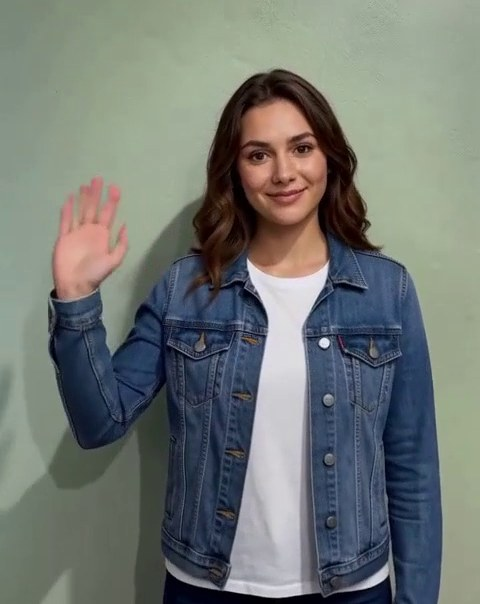
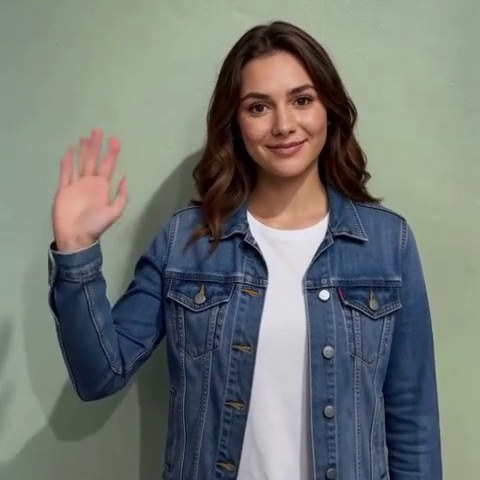
Diccionario: las capturas de las palabras se recortan igual que las de las letras
Las letras ya iban recortadas a la cara y la mano, y se leían mejor que las palabras, que mostraban el cuerpo entero con la mano chica. Ahora todas las capturas son el mismo cuadrado con la cara, el torso y las manos. En las doce señas las manos quedan dentro del recorte; el video sigue mostrando el cuerpo entero.

diff --git a/tools/previews_diccionario.py b/tools/previews_diccionario.py
@@ -40,10 +40,11 @@ FRAME_DE_CADA_SENA = {
     "v": 25,
 }
 
-# En la grilla las letras van de a cuatro por fila: con el cuerpo entero, la mano queda
-# de pocos píxeles. Su captura se recorta a un cuadrado con la cara y la mano. Las
-# palabras van enteras porque dónde queda el brazo respecto del cuerpo es parte de la seña.
-MARGEN_SUPERIOR_DE_LETRA = 0.08  # fracción del alto que se saltea arriba
+# La captura se recorta a un cuadrado con la cara, el torso y las manos. Con el cuerpo
+# entero la mano queda de pocos píxeles en una tarjeta de la grilla, y de la cintura para
+# abajo no hay nada de la seña. En todas las señas del modelo las manos quedan dentro del
+# cuadrado; si se agrega una que se hace más abajo, hay que revisar su captura.
+MARGEN_SUPERIOR = 0.08  # fracción del alto que se saltea arriba
 CALIDAD_JPG = 88
 
 
@@ -51,14 +52,10 @@ def nombre_de_archivo(clase):
     return clase.strip().replace(" ", "_")
 
 
-def es_letra(clase):
-    return len(clase) == 1 and clase.isalpha()
-
-
-def recorte_de_letra(alto, ancho):
+def recorte_cuadrado(alto, ancho):
     """El cuadrado de la parte de arriba del frame: (y0, y1), sin salirse de la imagen."""
     lado = min(ancho, alto)
-    y0 = min(int(round(MARGEN_SUPERIOR_DE_LETRA * alto)), alto - lado)
+    y0 = min(int(round(MARGEN_SUPERIOR * alto)), alto - lado)
     return y0, y0 + lado
 
 
@@ -142,9 +139,8 @@ def main():
     os.makedirs(DESTINO, exist_ok=True)
     for clase in clases:
         frame = leer_frame(cv2, videos[clase], FRAME_DE_CADA_SENA[clase])
-        if es_letra(clase):
-            y0, y1 = recorte_de_letra(*frame.shape[:2])
-            frame = frame[y0:y1]
+        y0, y1 = recorte_cuadrado(*frame.shape[:2])
+        frame = frame[y0:y1]
         base = os.path.join(DESTINO, nombre_de_archivo(clase))
         # imencode y no imwrite: imwrite falla en Windows con rutas que tienen tildes.
         ok, datos = cv2.imencode(".jpg", frame, [cv2.IMWRITE_JPEG_QUALITY, CALIDAD_JPG])
